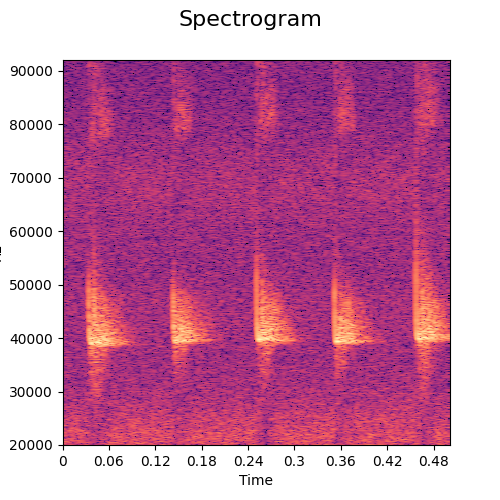
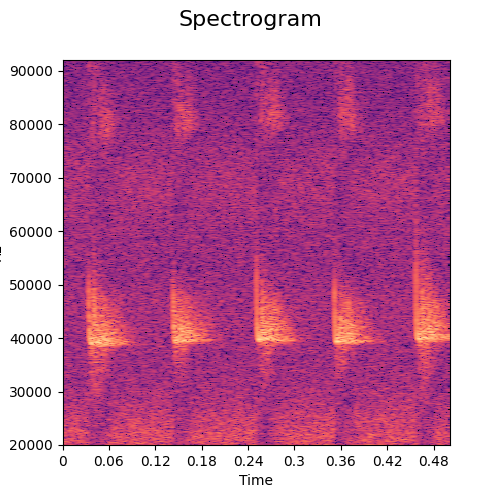
17 march

diff --git a/precomputation_kaleidoscope.py b/precomputation_kaleidoscope.py
@@ -36,14 +36,20 @@ plt.ioff()#turning interactive plotting OFF
 
 import cv2
 import IPython.display as ipd
+from pydub import AudioSegment
+
+def match_target_amplitude(sound, target_dBFS):
+    change_in_dBFS = target_dBFS - sound.dBFS
+    return sound.apply_gain(change_in_dBFS)
+
 
 EPS = 1e-8
 #Reference: https://www.kaggle.com/haqishen/augmentation-methods-for-audio
 #! USE THIS AFTER APPLYING THE rsync COMMAND. 
 
-def _normalize(S):
-	min_level_db=-35
-	return np.clip((S - min_level_db) / -min_level_db, 0, 1)
+# def _normalize(S):
+# 	min_level_db=-35
+# 	return np.clip((S - min_level_db) / -min_level_db, 0, 1)
 
 def calc_fft(y, rate):
 	n = len(y)
@@ -128,7 +134,7 @@ def plot_spectrogram(signals, labels_flag=False, rate=44100,mode="simple", targe
 	hop_length_value=256
 	if (mode=="simple"):
 		spec = np.abs(librosa.stft(signals, hop_length=hop_length_value, n_fft=5120))
-		spec = _normalize(librosa.amplitude_to_db(spec, ref=np.max))  #_normalize removed
+		spec = (librosa.amplitude_to_db(spec, ref=np.max))  #_normalize removed
 		axes=librosa.display.specshow(spec, sr=rate,hop_length=hop_length_value, x_axis='time', y_axis='linear') #when computing an STFT, you can pass that same parameter to specshow. 
 																					#This ensures that axis scales (e.g. time or frequency) are computed correctly.
 		ax2 = fig.gca() #getting this to set the range
@@ -140,12 +146,16 @@ def plot_spectrogram(signals, labels_flag=False, rate=44100,mode="simple", targe
 		start_ = int(np.random.uniform(- (0.2*rate),(0.2*rate)))
 		print('time shift: ',start_)
 		if start_ >= 0:
-			wav_time_shift = np.r_[signals[start_:], np.random.uniform(-0.001,0.001, start_)]
+			#wav_time_shift = np.r_[signals[start_:], np.random.uniform(-0.001,0.001, start_)]
+			wav_time_shift = np.r_[signals[start_:], np.random.choice(signals, -start_ )]   ##padding empty space with elelments of same distribution
+			
 		else:
-			wav_time_shift = np.r_[np.random.uniform(-0.001,0.001, -start_), signals[:start_]]
+			#wav_time_shift = np.r_[np.random.uniform(-0.001,0.001, -start_), signals[:start_]]
+			wav_time_shift = np.r_[np.random.choice(signals, -start_ ), signals[:start_]]
+			
 		#^ processing done, now plotting
 		spec = np.abs(librosa.stft(wav_time_shift, hop_length=hop_length_value, n_fft=5120))
-		spec = _normalize(librosa.amplitude_to_db(spec, ref=np.max))#_normalize removed
+		spec = (librosa.amplitude_to_db(spec, ref=np.max))#_normalize removed
 		axes=librosa.display.specshow(spec, sr=rate, x_axis='time',hop_length=hop_length_value, y_axis='linear')
 		ax2 = fig.gca() #getting this to set the range
 		print("Before adjusting axes, the yaxis range was: ", ax2.get_ylim())
@@ -158,15 +168,15 @@ def plot_spectrogram(signals, labels_flag=False, rate=44100,mode="simple", targe
 		print('speed rate: %.3f' % speed_rate, '(lower is faster)')
 		if len(wav_speed_tune) < (target_length*rate):
 			pad_len = (target_length*rate) - len(wav_speed_tune)
-			wav_speed_tune = np.r_[np.random.uniform(-0.001,0.001,int(pad_len/2)),
+			wav_speed_tune = np.r_[np.random.choice(signals,int(pad_len/2)),
 								wav_speed_tune,
-								np.random.uniform(-0.001,0.001,int(np.ceil(pad_len/2)))]
+								np.random.choice(signals,int(np.ceil(pad_len/2)))]
 		else: 
 			cut_len = len(wav_speed_tune) - (target_length*rate)
 			wav_speed_tune = wav_speed_tune[int(cut_len/2):int(cut_len/2)+int(target_length*rate)]
 		#^ processing done, now plotting
 		spec = np.abs(librosa.stft(wav_speed_tune, hop_length=hop_length_value, n_fft=5120))
-		spec = _normalize(librosa.amplitude_to_db(spec, ref=np.max))#_normalize removed
+		spec = (librosa.amplitude_to_db(spec, ref=np.max))#_normalize removed
 		axes=librosa.display.specshow(spec, sr=rate, x_axis='time',hop_length=hop_length_value, y_axis='linear')
 		ax2 = fig.gca() #getting this to set the range
 		print("Before adjusting axes, the yaxis range was: ", ax2.get_ylim())
@@ -198,8 +208,9 @@ required_output_number=999999999999
 input_directory = r'/media/rabi/Data/ThesisData/Bats audio records/2019/SM4BAT/WWNP'
 #output_directory=r'/home/rabi/Documents/Thesis/audio data analysis/audio-clustering/all plots'
 output_directory=r'/media/rabi/Data/ThesisData/audio data analysis/audio-clustering/plots_15march_b'
+target_dBFS=0  ##USED FOR NORMALIZATION
 
-final_target_length=0.3 #0.5 second
+final_target_length=0.5 #0.5 second
 iterator=0
 output_number_iterator=0
 
@@ -214,7 +225,18 @@ for index, row_data in tqdm(cluster_kaleidoscope.iterrows()):
 		path=row_data["INDIR"]+'/'+row_data["FOLDER"]+'/'+row_data["IN FILE"]
 		save_to=row_data["IN FILE"]+' at '+str(row_data["OFFSET"])
 		#save_to= str(path.relative_to(input_directory)).split('/')[-1]
-		signal, sr = librosa.load(path,sr=None)    #Explicitly Setting sr=None ensures original sampling preserved -- STOVF    
+		
+		#OLD METHOD--> signal, sr = librosa.load(path,sr=None)    #Explicitly Setting sr=None ensures original sampling preserved -- STOVF   
+		sound = AudioSegment.from_file(path)
+		sound=match_target_amplitude(sound, target_dBFS)
+		samples = sound.get_array_of_samples()
+		new_sound = sound._spawn(samples)
+		signal = np.array(samples).astype(np.float32)
+		sr=sound.frame_rate
+
+
+
+
 		#Segmenting to a random value of 1 seconds (for initial experiemtation)
 		length= signal.shape[0]/sr 
 		temp_results={"file_name":save_to, "length": length, "sample rate": sr}    

diff --git a/spectrogram normalization experiment/spectrogram_inspection.py b/spectrogram normalization experiment/spectrogram_inspection.py
@@ -39,10 +39,10 @@ def plot_spectrogram(signals, labels_flag=False, rate=44100,mode="simple", targe
 
 
 #########
-input_directory = r'/home/rabi/Documents/Thesis/spectrogram normalization experiment'
+input_directory = r'/home/rabi/Documents/Thesis/preprocessing and spectrograms generation/spectrogram normalization experiment'
 #output_directory=r'/home/rabi/Documents/Thesis/audio data analysis/audio-clustering/all plots'
-output_directory=r'/home/rabi/Documents/Thesis/spectrogram normalization experiment'
-bat_calls_data_dir=r'//home/rabi/Documents/Thesis/spectrogram normalization experiment/results.csv'
+output_directory=r'/home/rabi/Documents/Thesis/preprocessing and spectrograms generation/spectrogram normalization experiment'
+bat_calls_data_dir=r'/home/rabi/Documents/Thesis/preprocessing and spectrograms generation/spectrogram normalization experiment/results.csv'
 final_target_length=0.5 #1 second
 
 bat_calls_data=pd.read_csv(bat_calls_data_dir)
@@ -56,7 +56,7 @@ bat_calls_data_processed=bat_calls_data_processed.set_index("just_file_name")
 # normalized_sound.export("nomrmalizedAudio.m4a", format="mp4")
 
 
-target_dBFS=0
+target_dBFS=5
 for path in (Path(input_directory).rglob('*.wav')):
 	sound = AudioSegment.from_file(path)
 	sound=match_target_amplitude(sound, target_dBFS)
